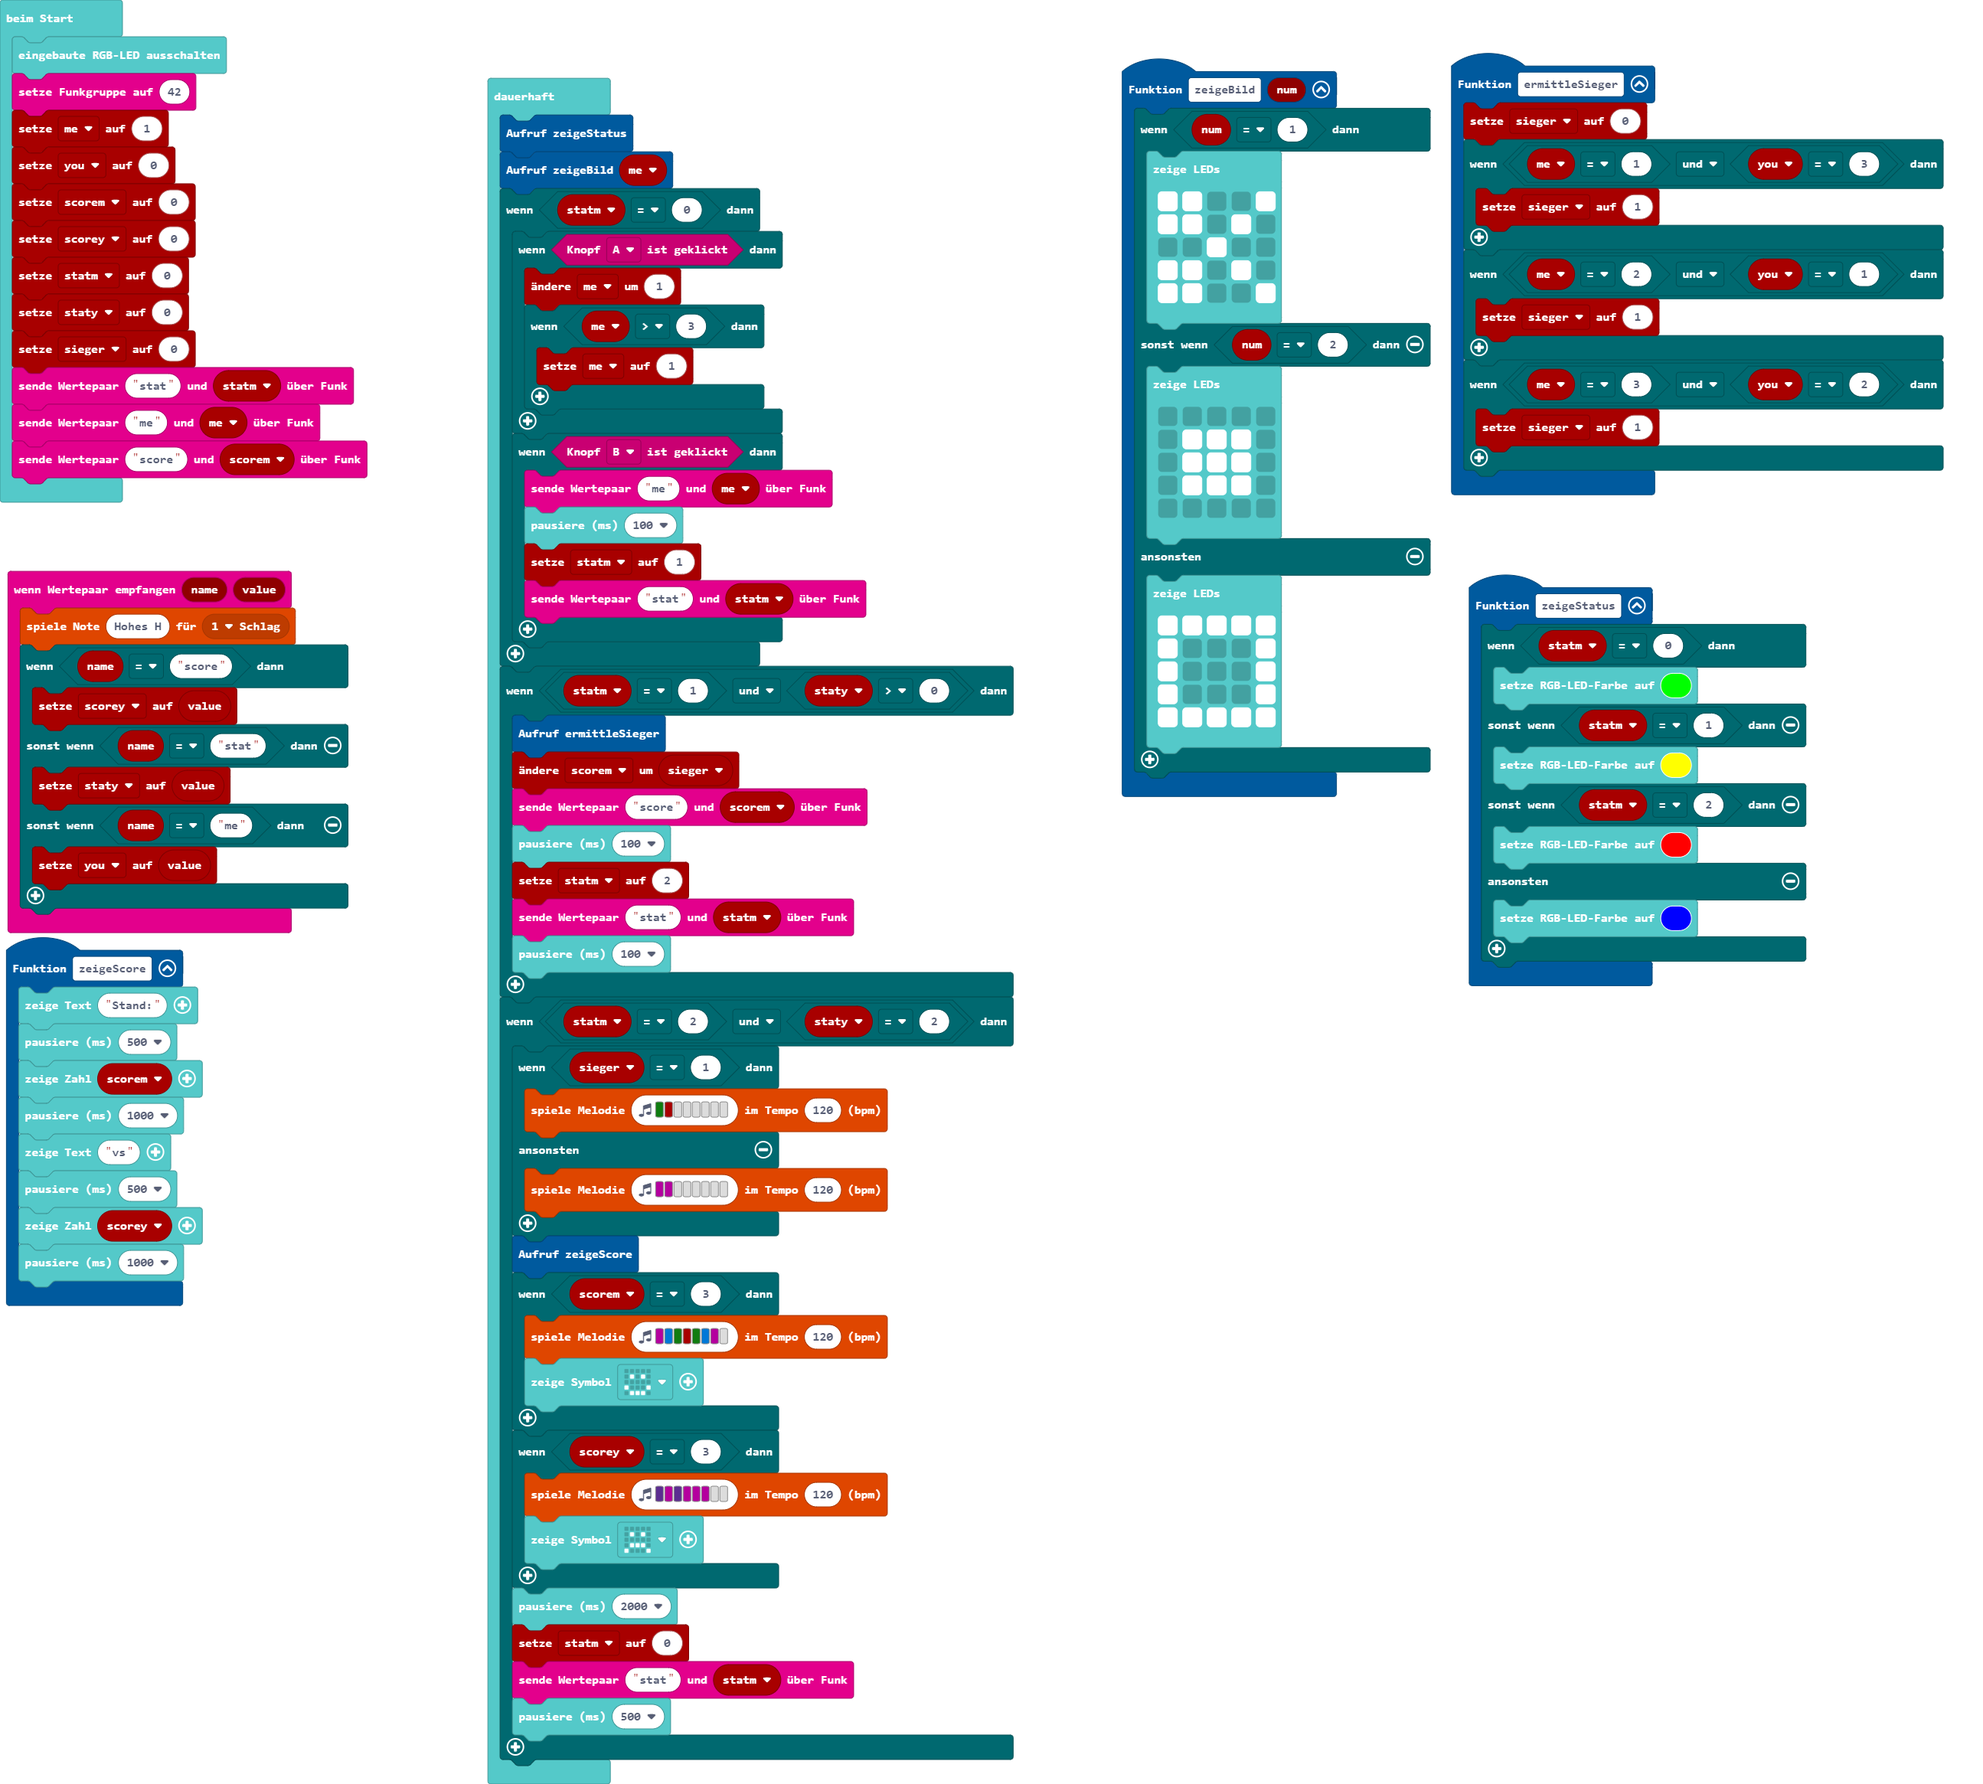
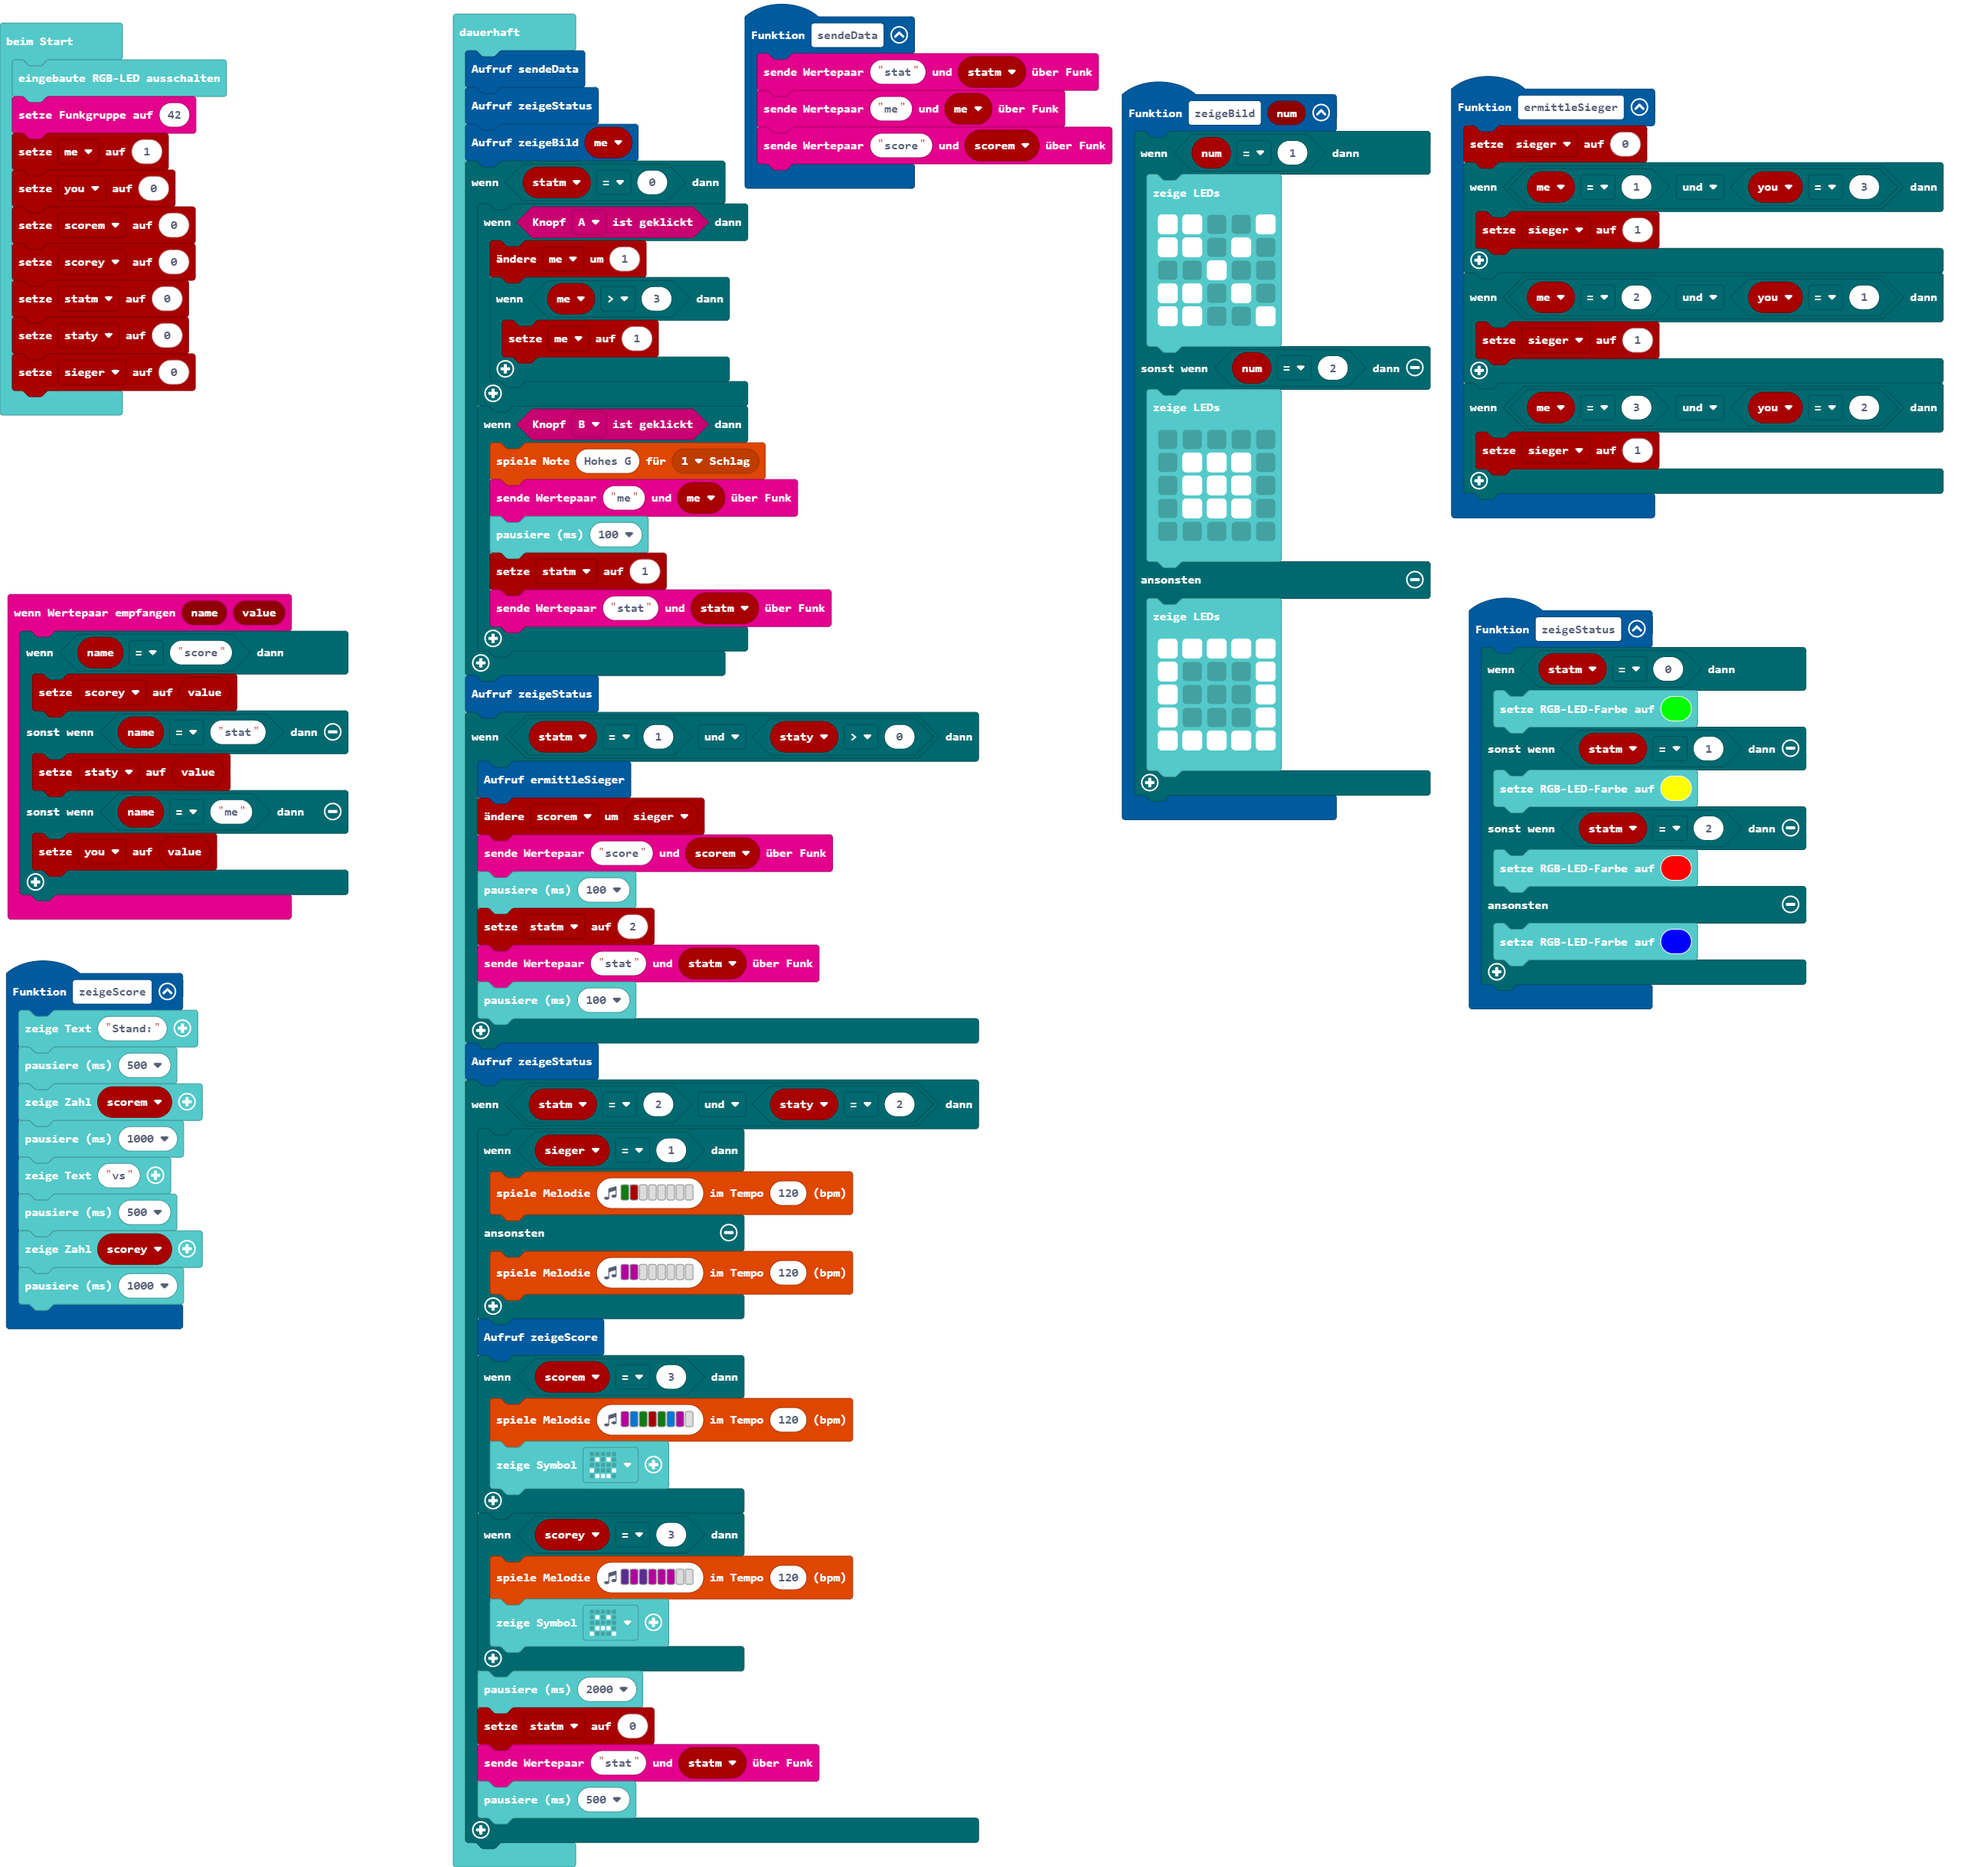
Aktualisiere main.blocks, main.ts

diff --git a/main.ts b/main.ts
@@ -1,3 +1,8 @@
+function sendeData () {
+    radio.sendValue("stat", statm)
+    radio.sendValue("me", me)
+    radio.sendValue("score", scorem)
+}
 function ermittleSieger () {
     sieger = 0
     if (me == 1 && you == 3) {
@@ -59,7 +64,6 @@ function zeigeStatus () {
     }
 }
 radio.onReceivedValue(function (name, value) {
-    music.playTone(988, music.beat(BeatFraction.Whole))
     if (name == "score") {
         scorey = value
     } else if (name == "stat") {
@@ -84,10 +88,8 @@ scorey = 0
 statm = 0
 staty = 0
 sieger = 0
-radio.sendValue("stat", statm)
-radio.sendValue("me", me)
-radio.sendValue("score", scorem)
 basic.forever(function () {
+    sendeData()
     zeigeStatus()
     zeigeBild(me)
     if (statm == 0) {
@@ -98,12 +100,14 @@ basic.forever(function () {
             }
         }
         if (input.buttonIsPressed(Button.B)) {
+            music.playTone(784, music.beat(BeatFraction.Whole))
             radio.sendValue("me", me)
             basic.pause(100)
             statm = 1
             radio.sendValue("stat", statm)
         }
     }
+    zeigeStatus()
     if (statm == 1 && staty > 0) {
         ermittleSieger()
         scorem += sieger
@@ -113,6 +117,7 @@ basic.forever(function () {
         radio.sendValue("stat", statm)
         basic.pause(100)
     }
+    zeigeStatus()
     if (statm == 2 && staty == 2) {
         if (sieger == 1) {
             music.playMelody("G C5 - - - - - - ", 120)
